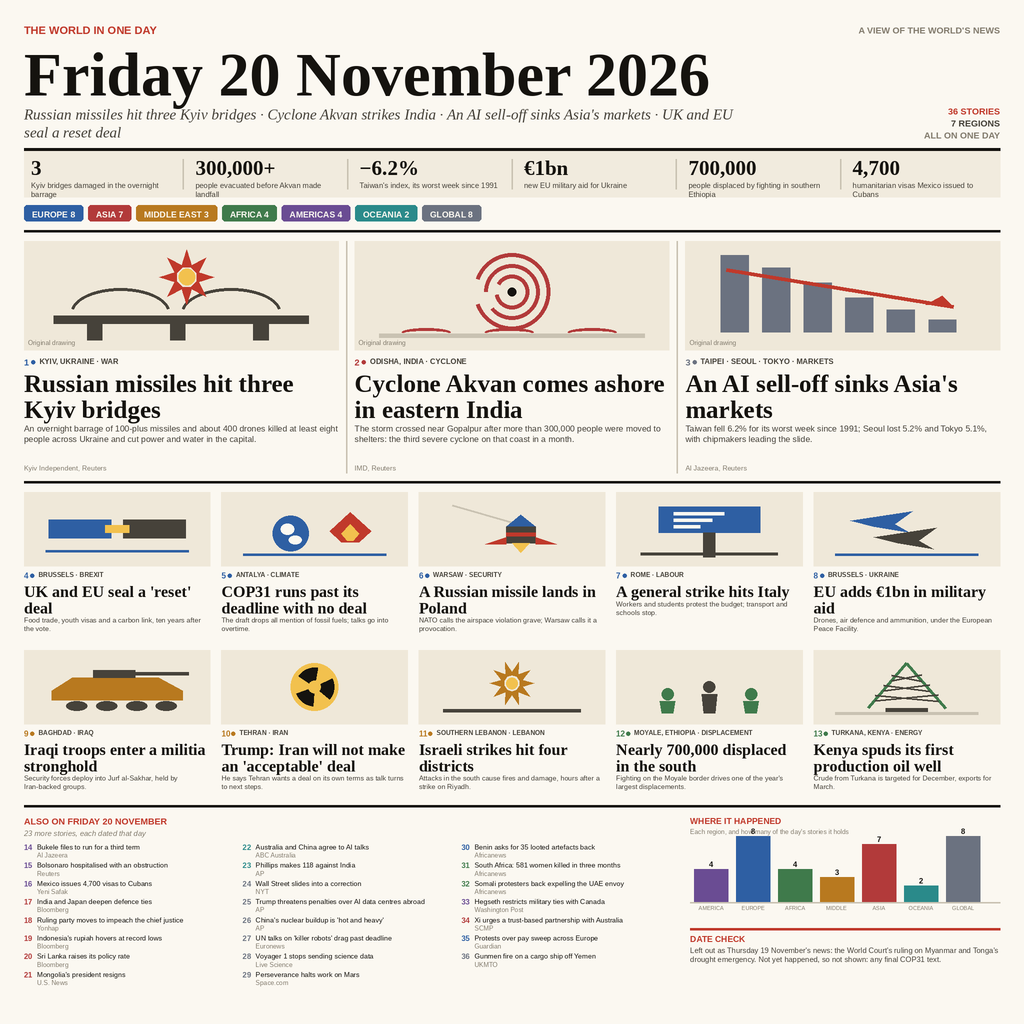
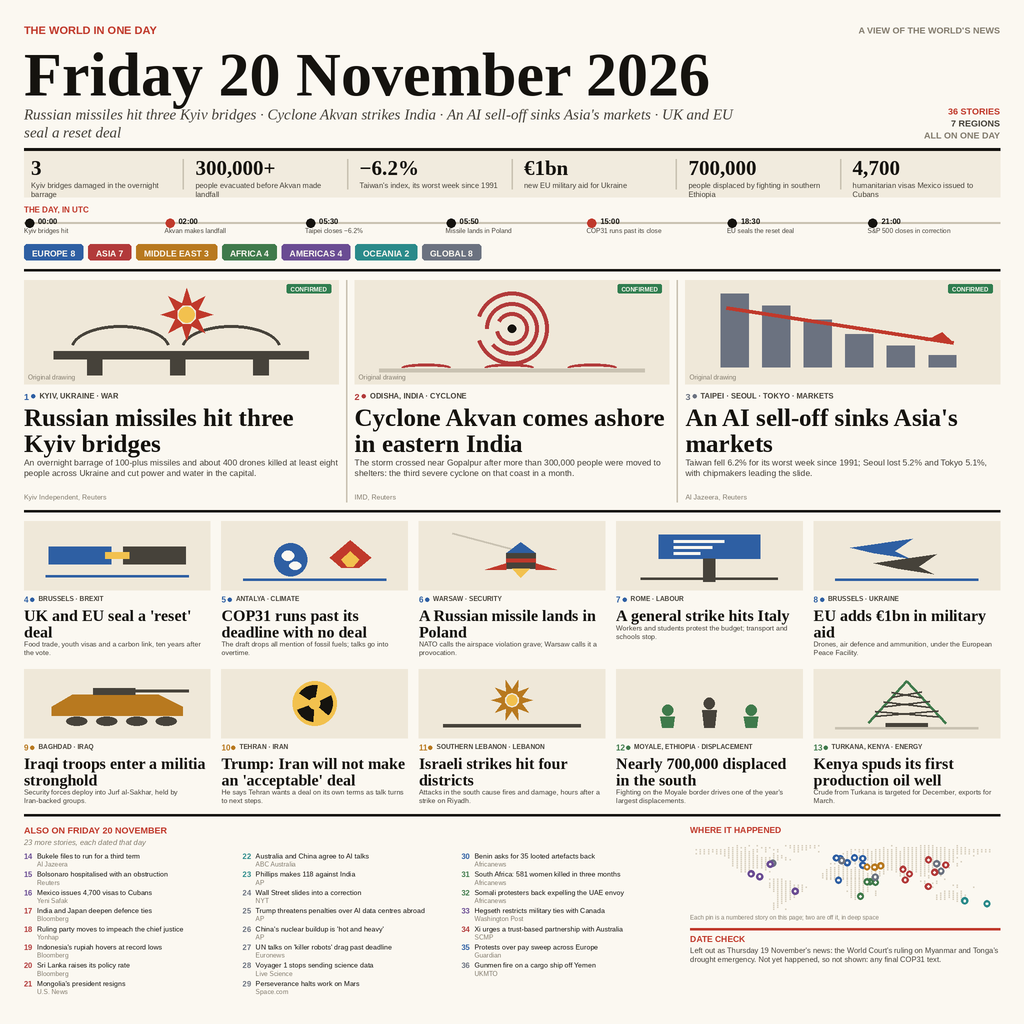
Add UTC timeline, credibility stamps and a real world map with pins

Changed region(s): [[0.0, 0.1875, 0.9688, 0.9688]]

diff --git a/draw.py b/draw.py
@@ -440,6 +440,55 @@ def icon_ship(p, x, y, w, h, c):
                 (cx + dx * r * 0.40 + dy * r * 0.18, cy + dy * r * 0.40 - dx * r * 0.18)], RED)
 
 
+# A coarse world, 64 columns of longitude by 30 of latitude: '#' is land.
+# Enough resolution to be read as the world at map size, no more.
+WORLD = [
+    '           #  # #      #########                 #      ####     #          ',
+    '         #####   ###    #######                #  # ###########  ###        ',
+    ' ########### # ## # ##   ####          ##### ###### ######################  ',
+    '  ############### #  #   ##    #      ## #################################  ',
+    ' #### ##########    #                ###  ########################### #     ',
+    '        #########   ###               # #########################    #      ',
+    '         ###############           # #############################          ',
+    '          ############ ##          ##############################           ',
+    '          ###########               ######  ## ################## #         ',
+    '          ##########              ##    # #### ############## #  #          ',
+    '          ##########                ##     ##################    #          ',
+    '           ########               ##### #  ################### #            ',
+    '            ###   #              ############# ##############               ',
+    '            ###    #             ########## ####  ############              ',
+    '              #                 ################   ###  ##                  ',
+    '               ##               ############ ##    ##   ###  #              ',
+    '                                #############       #     #                 ',
+    '                   ####          #############                #             ',
+    '                    #####             ########          ##  #               ',
+    '                   ######             #######            # ##               ',
+    '                   #########          ######                    ##          ',
+    '                   ##########          #####               #     #   #      ',
+    '                    ########           #####                                ',
+    '                    ########          ###### #                ### #         ',
+    '                     ######            ####  #               ######         ',
+    '                     #####             ####  #              ########        ',
+    '                     #####             ####                 ########        ',
+    '                     ####               ##                  ### ####        ',
+    '                     ###                                         ###        ',
+    '                    ###                                                     ',
+    '                    ##                                                      ',
+    '                    ##                                                      ',
+    '                    #  #                                                    ',
+    '                                                                            ',
+]
+LON0, LON1 = -170.0, 190.0      # the map's left and right edges, in degrees
+LAT0, LAT1 = 78.0, -58.0        # its top and bottom
+
+
+def project(lat, lon, x, y, w, h):
+    """Degrees to a point inside the map box."""
+    px = x + (lon - LON0) / (LON1 - LON0) * w
+    py = y + (LAT0 - lat) / (LAT0 - LAT1) * h
+    return px, py
+
+
 ICON = {
     "bridge": icon_bridge, "cyclone": icon_cyclone, "chart": icon_chart,
     "deal": icon_deal, "climate": icon_climate, "missile": icon_missile,
@@ -456,7 +505,9 @@ ICON = {
 
 # ---------------------------------------------------------------- stories ---
 # Every story below happened, or was first reported, on Friday 20 November 2026.
-# Fields: number, region, dateline, beat, headline, standfirst, sources, icon.
+# Fields: number, region, dateline, beat, headline, standfirst, sources, icon,
+# and how solid the story is: 2 = confirmed by several outlets or an official
+# body, 1 = one named outlet, 0 = a claim attributed to someone.
 LEADS = [
     (1, "Europe", "KYIV, UKRAINE", "WAR",
      "Russian missiles hit three Kyiv bridges",
@@ -587,7 +638,26 @@ def region_counts():
     return counts
 
 
+
+
+
+
+
+
+
+
+
 # ----------------------------------------------------------------- layout ---
+TIMELINE = [
+    ("00:00", "Kyiv bridges hit"),
+    ("02:00", "Akvan makes landfall"),
+    ("05:30", "Taipei closes \u22126.2%"),
+    ("05:50", "Missile lands in Poland"),
+    ("15:00", "COP31 runs past its close"),
+    ("18:30", "EU seals the reset deal"),
+    ("21:00", "S&P 500 closes in correction"),
+]
+
 STATS = [
     ("3", "Kyiv bridges damaged in the overnight barrage"),
     ("300,000+", "people evacuated before Akvan made landfall"),
@@ -649,6 +719,27 @@ def stat_strip(p, y):
     return y + ch + 8
 
 
+def timeline(p, y):
+    """The day on one clock, so the page has a spine in time."""
+    p.text(M, y, "THE DAY, IN UTC", p.font(SANS_B, 8.2), RED)
+    y += 12
+    n = len(TIMELINE)
+    gap = 8
+    cw = (W - 2 * M - gap * (n - 1)) / n
+    # the rail
+    p.rect([M, y + 5, W - M, y + 6.5], fill=FAINT)
+    for i, (clock, what) in enumerate(TIMELINE):
+        x = M + i * (cw + gap)
+        p.ellipse([x + 1, y + 1.5, x + 10, y + 10.5], fill=RED if i in (1, 4) else INK)
+        p.text(x + 14, y, clock, p.font(SANS_B, 7.6), INK)
+        f = p.font(SANS_R, 6.6)
+        ty = y + 10
+        for line in p.wrap(what, f, cw - 6)[:2]:
+            p.text(x, ty, line, f, INK2)
+            ty += 7.6
+    return y + 27
+
+
 def region_bar(p, y):
     """The seven regions, each with its colour and its story count."""
     counts = region_counts()
@@ -683,6 +774,7 @@ def lead(p, x, y, w, h, story):
     p.rect([x, y, x + iw, y + ih], fill="#EFE8D9")
     ICON[ic](p, x + iw * 0.06, y + ih * 0.08, iw * 0.88, ih * 0.84, color)
     p.text(x + 4, y + ih - 11, "Original drawing", p.font(SANS_R, 6.6), GREY)
+    trust_badge(p, x + iw - 52, y + 4, n)
     yy = y + ih + 7
     yy = kicker(p, x, yy, n, region, dateline, beat, color)
     f, lines = p.fit(head, SERIF_B, w, 2, 25, 13)
@@ -756,6 +848,36 @@ def date_check(p, x, y, w):
     return ty
 
 
+
+
+
+# How solid each story is, by its number: 2 confirmed by several outlets or an
+# official body, 1 a single named outlet, 0 a claim attributed to a person.
+TRUST = {
+    1: 2, 2: 2, 3: 2, 4: 2, 5: 2, 6: 2, 7: 2, 8: 2, 9: 2, 10: 0,
+    11: 1, 12: 2, 13: 2, 14: 2, 15: 2, 16: 1, 17: 2, 18: 2, 19: 2, 20: 1,
+    21: 1, 22: 2, 23: 2, 24: 2, 25: 2, 26: 0, 27: 2, 28: 2, 29: 2, 30: 1,
+    31: 2, 32: 1, 33: 1, 34: 2, 35: 2, 36: 1,
+}
+TRUST_LABEL = {2: "CONFIRMED", 1: "REPORTED", 0: "CLAIMED"}
+TRUST_COLOR = {2: "#2F7D4F", 1: "#B8791F", 0: "#8A8A8A"}
+
+# Where each story happened, for the map pins: latitude, longitude.
+PLACE = {
+    1: (50.4, 30.5), 2: (19.3, 84.9), 3: (25.0, 121.5), 4: (50.8, 4.4),
+    5: (36.9, 30.7), 6: (52.2, 21.0), 7: (41.9, 12.5), 8: (50.8, 4.4),
+    9: (32.9, 44.3), 10: (35.7, 51.4), 11: (33.3, 35.5), 12: (3.5, 39.0),
+    13: (3.1, 35.6), 14: (13.7, -89.2), 15: (-15.8, -47.9), 16: (19.4, -99.1),
+    17: (28.6, 77.2), 18: (37.6, 127.0), 19: (-6.2, 106.8), 20: (6.9, 79.9),
+    21: (47.9, 106.9), 22: (-35.3, 149.1), 23: (-41.3, 174.8), 24: (40.7, -74.0),
+    25: (38.9, -77.0), 26: (39.9, 116.4), 27: (46.2, 6.1), 28: (0.0, 0.0),
+    29: (0.0, 0.0), 30: (6.4, 2.4), 31: (-26.2, 28.0), 32: (2.0, 45.3),
+    33: (38.9, -77.0), 34: (22.5, 114.1), 35: (51.5, -0.1), 36: (12.8, 45.0),
+}
+# Voyager 1 and Perseverance are off the map: both are marked at deep space.
+OFFMAP = {28, 29}
+
+
 def build():
     p = Page()
     counts = region_counts()
@@ -764,12 +886,13 @@ def build():
     y = M
     y = masthead(p, y)
     y = stat_strip(p, y)
+    y = timeline(p, y)
     y = region_bar(p, y)
     y = section_bar(p, y, 2)
 
     # --- the three leads
     lead_top = y + 9
-    lead_h = 232
+    lead_h = 222
     gap = 16
     lw = (W - 2 * M - gap * 2) / 3
     for i, story in enumerate(LEADS):
@@ -785,7 +908,7 @@ def build():
     cols, rows_ = 5, 2
     cg = 11
     cw = (W - 2 * M - cg * (cols - 1)) / cols
-    chh = 148
+    chh = 138
     grid = CARDS[:cols * rows_]
     for i, story in enumerate(grid):
         c, r = i % cols, i // cols
@@ -812,28 +935,45 @@ def build():
 
 
 def draw_map(p, x, y, w, h):
-    """A small world map: the story regions in their colours."""
+    """The world as dots, with a numbered pin for every story on it."""
     p.text(x, y, "WHERE IT HAPPENED", p.font(SANS_B, 8.4), RED)
-    p.text(x, y + 12, "Each region, and how many of the day's stories it holds",
-           p.font(SANS_R, 6.6), GREY)
-    # a simple graticule with blocks standing for regions, in their colours
-    top = y + 26
-    bw = (w - 8 * 2) / 7
-    order = ["Americas", "Europe", "Africa", "Middle East", "Asia", "Oceania", "Global"]
-    counts = region_counts()
-    mx = max(counts.values())
-    for i, region in enumerate(order):
-        bh = max(4.0, (h - 40) * (counts.get(region, 0) / mx))
-        bx = x + i * bw + 4
-        p.rect([bx, top + (h - 46) - bh, bx + bw - 8, top + (h - 46)],
-               fill=REGION_COLOR[region])
-        p.text(bx + (bw - 8) / 2, top + (h - 46) - bh - 9,
-               str(counts.get(region, 0)), p.font(SANS_B, 7.4), INK, anchor="ma")
-    p.rect([x, top + (h - 46), x + w, top + (h - 46) + 1], fill=FAINT)
-    for i, region in enumerate(order):
-        f = p.font(SANS_R, 5.6)
-        lbl = region[:7].upper()
-        p.text(x + i * bw + 4 + (bw - 8) / 2, top + (h - 46) + 3, lbl, f, GREY, anchor="ma")
+    rows = len(WORLD)
+    cols = len(WORLD[0])
+    mh = h - 30
+    cw = w / cols
+    ch = mh / rows
+    dot = max(1.0, min(cw, ch) * 0.34)
+    for r, line in enumerate(WORLD):
+        for c, ch_ in enumerate(line):
+            if ch_ != "#":
+                continue
+            cx = x + (c + 0.5) * cw
+            cy = y + 20 + (r + 0.5) * ch
+            p.rect([cx - dot / 2, cy - dot / 2, cx + dot / 2, cy + dot / 2], fill="#D8D0BF")
+
+    # every story as a pin on its place
+    for n, (lat, lon) in PLACE.items():
+        if n in OFFMAP:
+            continue
+        px, py = project(lat, lon, x, y + 20, w, mh)
+        region = next(r for r in (LEADS + CARDS) if r[0] == n)[1]
+        col = REGION_COLOR[region]
+        p.ellipse([px - 3.4, py - 3.4, px + 3.4, py + 3.4], fill=col)
+        p.ellipse([px - 1.2, py - 1.2, px + 1.2, py + 1.2], fill=PAPER)
+    p.text(x, y + h - 8, "Each pin is a numbered story on this page; two are off it, in deep space",
+           p.font(SANS_R, 6.2), GREY)
+
+
+def trust_badge(p, x, y, n):
+    """A small stamp saying how solid the story is."""
+    level = TRUST.get(n, 1)
+    label = TRUST_LABEL[level]
+    col = TRUST_COLOR[level]
+    f = p.font(SANS_B, 5.8)
+    wd = p.tw(label, f) + 8
+    p.rrect([x, y, x + wd, y + 9], 1.5, fill=col)
+    p.text(x + 4, y + 2, label, f, PAPER)
+    return wd
 
 
 if __name__ == "__main__":

diff --git a/verify.py b/verify.py
@@ -38,11 +38,12 @@ y = M
 y = d.masthead(p, y)
 masthead_bottom = y
 y = d.stat_strip(p, y)
+y = d.timeline(p, y)
 y = d.region_bar(p, y)
 y = d.section_bar(p, y, 2)
 
 lead_top = y + 9
-lead_h = 232
+lead_h = 222
 gap = 16
 lw = (W - 2 * M - gap * 2) / 3
 lead_bottom = lead_top + lead_h
@@ -53,7 +54,7 @@ card_top = y + 9
 cols, rows_ = 5, 2
 cg = 11
 cw = (W - 2 * M - cg * (cols - 1)) / cols
-chh = 148
+chh = 138
 card_bottom = card_top + rows_ * chh + 10 * (rows_ - 1)
 y = card_bottom + 7
 y = d.section_bar(p, y, 2)

diff --git a/README.md b/README.md
@@ -37,8 +37,14 @@ hospitalised, India and Japan deepening defence ties, South Korea's ruling party
 moving to impeach the chief justice, Australia and China agreeing AI talks,
 Wall Street in correction, Voyager 1 falling silent, and more.
 
-A **date check** at the foot says what was left out and why, so the one-day rule
-is visible rather than implied.
+Under the masthead, two strips give the day a spine: **the day in UTC**, a
+seven-stop chronology from the Kyiv bridges at 00:00 to the S&P 500 closing in
+correction, and **the day in numbers**, six figures worth stopping on. Every
+story carries a stamp saying how solid it is, **CONFIRMED** where several outlets
+or an official body have it, **REPORTED** where one named outlet does, **CLAIMED**
+where it is someone's assertion. A dotted world map pins each story where it
+happened, and a **date check** at the foot names what was left out and why, so the
+one-day rule is visible rather than implied.
 
 ## How it is made
 
@@ -78,7 +84,7 @@ python3 verify.py   # checks the layout against its own geometry
 | `main.ts` | The entry program: verifies and places `entry.png`. |
 | `draw.py` | Draws the page: layout, icons, story list. |
 | `verify.py` | Checks the drawn page's geometry. |
-| `entry.png` | The entry: 1024 x 1024, 428 KB. |
+| `entry.png` | The entry: 1024 x 1024, 451 KB. |
 | `LICENSE` | MIT. |
 
 ---
